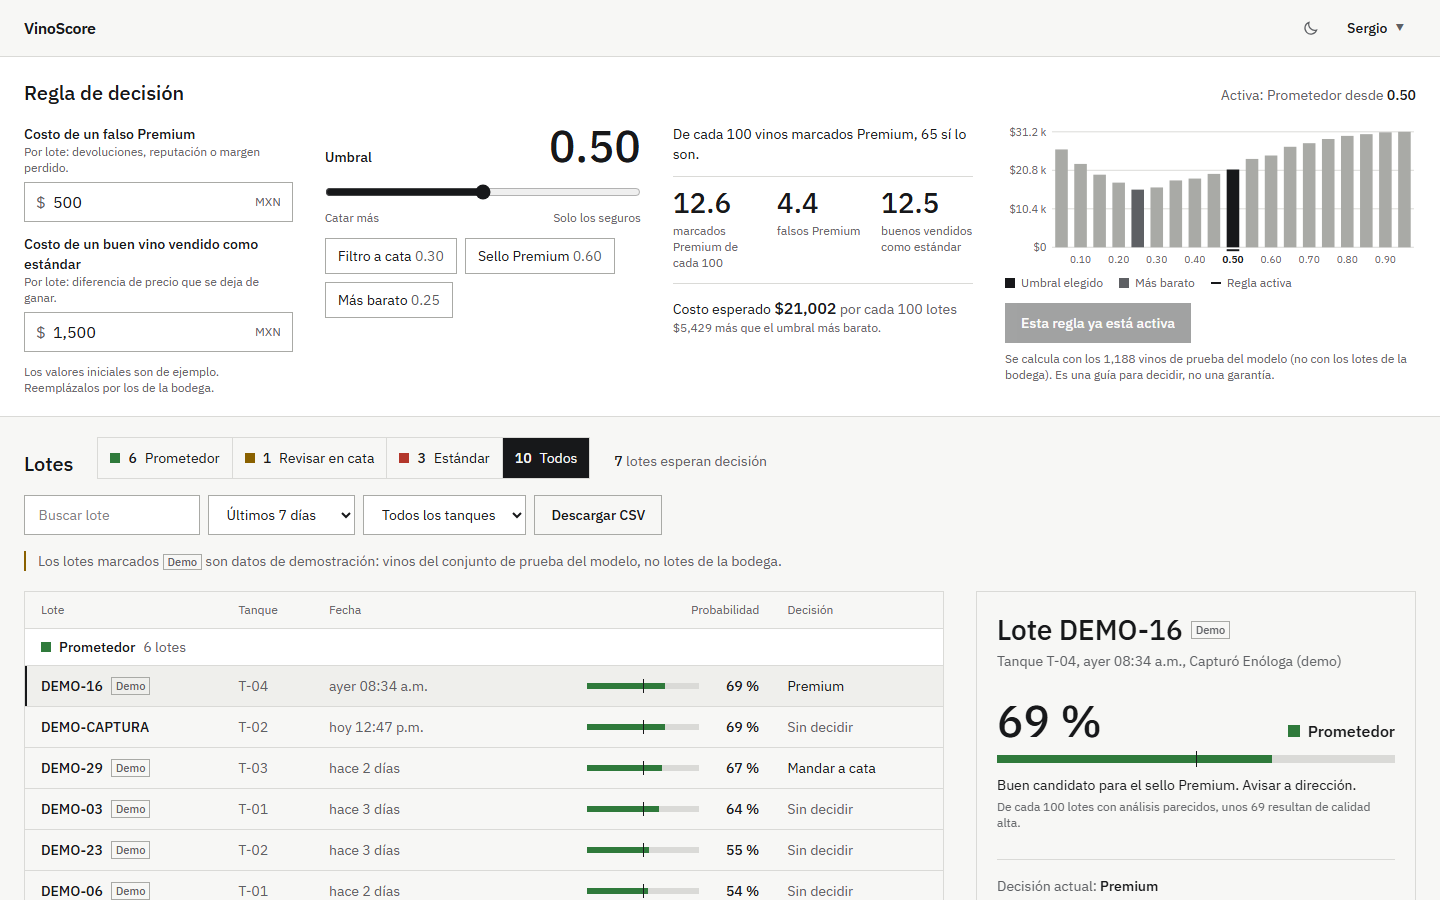
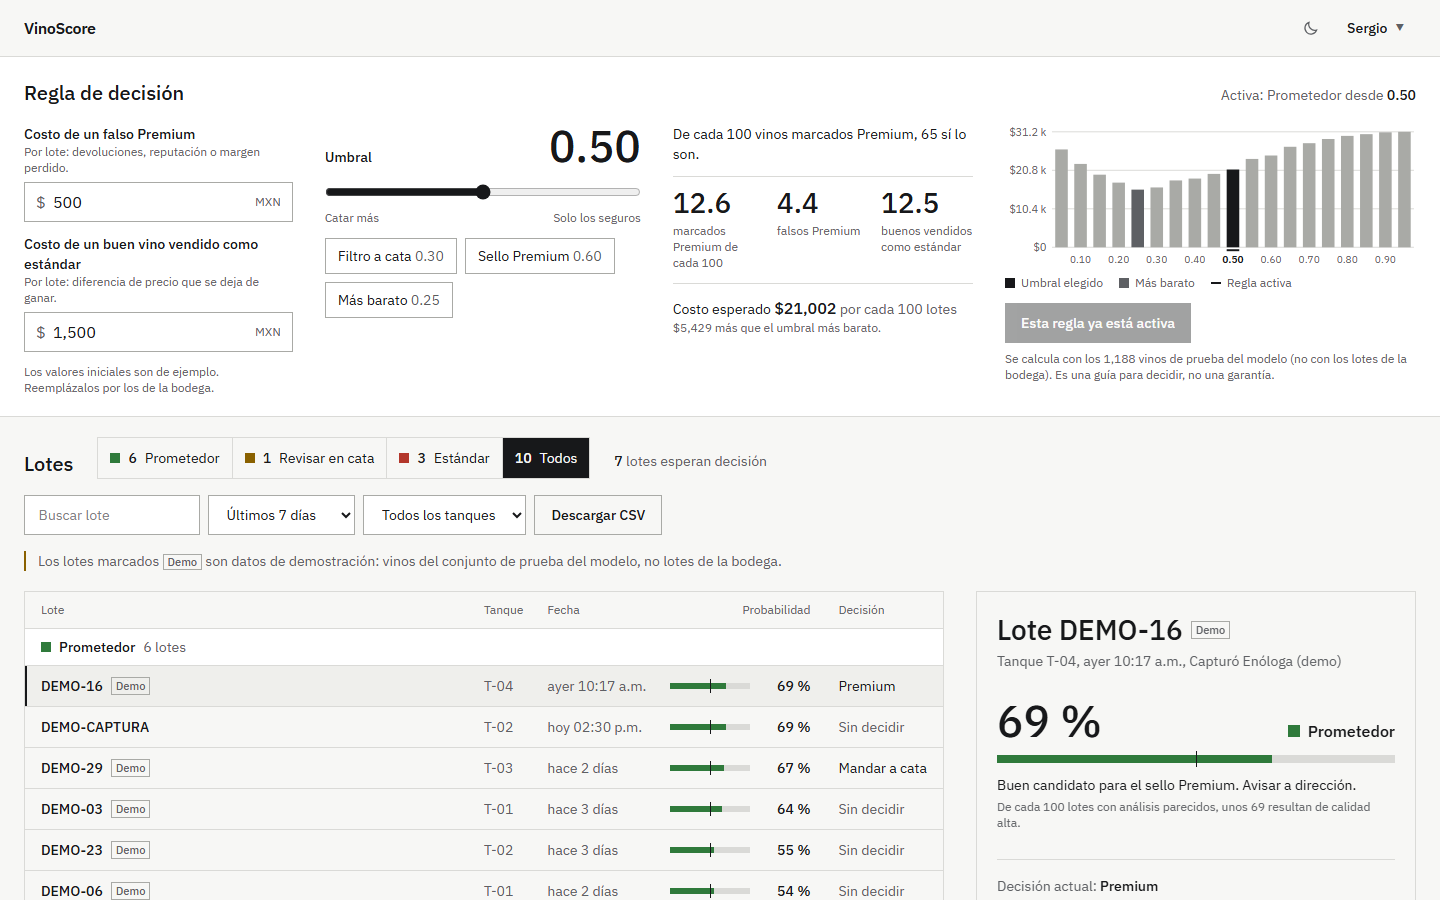
web: correcciones de la revisión final
- La tabla de lotes cabe completa de 390 a 1440 px (la columna Decisión ya no se esconde entre 1024 y 1279 px).
- Una coma ambigua en los costos ("1,5") pide corrección en lugar de leerse como 15.
- Los costos con centavos se muestran completos y no se redondean al activar otra regla.
- La leyenda del simulador vale en los dos temas.
- La prueba de interfaz revisa el contenedor de la tabla y espera a que se vacíe la lista de pendientes.

diff --git a/web/src/vistas/Sergio.tsx b/web/src/vistas/Sergio.tsx
@@ -201,12 +201,12 @@ export function VistaSergio({
               )}
               {enTabla.length > 0 && (
                 <div className="overflow-x-auto border border-linea">
-                  <table aria-label="Lotes" className="w-full min-w-[560px] text-sm">
+                  <table aria-label="Lotes" className="w-full text-sm">
                     <thead>
                       <tr className="border-b border-linea text-left text-xs text-suave">
                         <th scope="col" className="px-4 py-2.5 font-normal">Lote</th>
                         <th scope="col" className="hidden px-3 py-2.5 font-normal md:table-cell">Tanque</th>
-                        <th scope="col" className="hidden px-3 py-2.5 font-normal md:table-cell">Fecha</th>
+                        <th scope="col" className="hidden px-3 py-2.5 font-normal xl:table-cell">Fecha</th>
                         <th scope="col" className="px-3 py-2.5 text-right font-normal">Probabilidad</th>
                         <th scope="col" className="px-4 py-2.5 font-normal">Decisión</th>
                       </tr>
@@ -233,7 +233,8 @@ export function VistaSergio({
                               onClick={() => elegir(l)}
                               className={`cursor-pointer border-b border-linea last:border-b-0 hover:bg-realce ${sel ? "bg-realce shadow-[inset_2px_0_0_var(--texto)]" : ""}`}
                             >
-                              <td className="max-w-[16rem] px-4 py-2.5">
+                              {/* w-full + max-w-0: la columna Lote toma el espacio que sobra y recorta el código largo */}
+                              <td className="w-full max-w-0 px-4 py-2.5">
                                 <button
                                   onClick={(e) => {
                                     e.stopPropagation();
@@ -244,16 +245,18 @@ export function VistaSergio({
                                   <span className="truncate">{l.codigo}</span>
                                   {l.es_demo && <InsigniaDemo />}
                                 </button>
+                                {/* Lo que no cabe en columnas va bajo el código: tanque y fecha en celular, fecha en laptop */}
                                 <span className="block truncate text-xs text-suave md:hidden">
                                   {[l.tanque && `Tanque ${l.tanque}`, fechaRelativa(l.fecha)].filter(Boolean).join(", ")}
                                 </span>
+                                <span className="hidden truncate text-xs text-suave md:block xl:hidden">{fechaRelativa(l.fecha)}</span>
                               </td>
-                              <td className="hidden max-w-[8rem] truncate px-3 py-2.5 text-suave md:table-cell">{l.tanque || "–"}</td>
-                              <td className="hidden whitespace-nowrap px-3 py-2.5 text-suave md:table-cell">{fechaRelativa(l.fecha)}</td>
+                              <td className="hidden max-w-[8rem] truncate whitespace-nowrap px-3 py-2.5 text-suave md:table-cell">{l.tanque || "–"}</td>
+                              <td className="hidden whitespace-nowrap px-3 py-2.5 text-suave xl:table-cell">{fechaRelativa(l.fecha)}</td>
                               <td className="px-3 py-2.5">
                                 <span className="flex items-center justify-end gap-3">
                                   {l.probabilidad !== null && l.semaforo && (
-                                    <span className="hidden w-28 sm:block">
+                                    <span className="hidden w-20 md:block lg:hidden xl:block">
                                       <BarraProbabilidad p={l.probabilidad} semaforo={l.semaforo} umbral={umbral} />
                                     </span>
                                   )}

diff --git a/web/src/util.ts b/web/src/util.ts
@@ -93,15 +93,19 @@ export function fraseProbabilidad(p: number): string {
 }
 
 /**
- * Cantidades en pesos: "$1,500", "1500" o "1,500.50". La coma es separador de miles
- * (uso de México), así que "1,500" vale 1500 y no 1.5. Devuelve null si no es un número.
+ * Cantidades en pesos: "$1,500", "1500" o "1,500.50". La coma solo vale como separador
+ * de miles (uso de México): "1,500" es 1500. Una coma ambigua como "1,5" no se adivina:
+ * devuelve null para que la persona lo corrija.
  */
 export function leerPesos(texto: string): number | null {
-  const t = texto.replace(/[$\s,]/g, "");
-  if (t === "" || !/^\d*\.?\d+$|^\d+\.$/.test(t)) return null;
-  const n = Number(t);
+  const t = texto.replace(/[$\s]/g, "");
+  if (!/^(\d{1,3}(,\d{3})+|\d+)(\.\d+)?$/.test(t)) return null;
+  const n = Number(t.replace(/,/g, ""));
   return Number.isFinite(n) ? n : null;
 }
+
+/** Pesos para un campo editable: separador de miles y centavos solo si los hay ("1,500" o "1,500.5"). */
+export const pesosCampo = (n: number) => n.toLocaleString("es-MX", { maximumFractionDigits: 2 });
 
 /** Análisis de laboratorio: acepta "0,45" y "0.45". Devuelve null si no es un número válido. */
 export function leerNumero(texto: string): number | null {

diff --git a/web/src/vistas/Regla.tsx b/web/src/vistas/Regla.tsx
@@ -2,7 +2,7 @@ import { useEffect, useMemo, useState } from "react";
 import { api } from "../api";
 import type { Configuracion, FilaPerilla, Perilla } from "../tipos";
 import { Boton } from "../ui";
-import { leerPesos, num, peso } from "../util";
+import { leerPesos, num, peso, pesosCampo } from "../util";
 
 const compacto = new Intl.NumberFormat("es-MX", { style: "currency", currency: "MXN", notation: "compact", maximumFractionDigits: 1 });
 const igual = (a: number, b: number) => Math.abs(a - b) < 1e-6;
@@ -154,8 +154,8 @@ export function Regla({ onConfigCambia }: { onConfigCambia: (c: Configuracion) =
       .then((c) => {
         setCfg(c);
         setUmbral(redondear(c.umbral_activo));
-        setFp(num(c.costo_falso_premium, 0));
-        setFn(num(c.costo_bueno_perdido, 0));
+        setFp(pesosCampo(c.costo_falso_premium));
+        setFn(pesosCampo(c.costo_bueno_perdido));
       })
       .catch(() => setErrorCfg("No se pudo cargar la regla activa."));
   }, []);

diff --git a/web/src/vistas/FichaLote.tsx b/web/src/vistas/FichaLote.tsx
@@ -101,7 +101,7 @@ function Simulador({ ficha, variables, umbral }: { ficha: LoteFicha; variables: 
               <strong className="font-medium"> Pasaría de {SEMAFORO[ficha.semaforo].etiqueta} a {SEMAFORO[sim.semaforo].etiqueta}.</strong>
             )}
           </p>
-          <p className="mt-1 text-xs text-suave">Línea clara: umbral de la regla ({pct(umbral)}). Línea gris: valor original del lote.</p>
+          <p className="mt-1 text-xs text-suave">Línea fuerte: umbral de la regla ({pct(umbral)}). Línea gris: valor original del lote.</p>
           {sim.advertencias.length > 0 && (
             <p className="mt-3 border-l-2 border-ambar pl-3 text-xs">{sim.advertencias[0]} Con valores tan raros la estimación es menos confiable.</p>
           )}

diff --git a/docs/prueba_interfaz.py b/docs/prueba_interfaz.py
@@ -53,6 +53,16 @@ JS_ESQUINAS = """() => [...document.querySelectorAll('body *')].filter(e => {
 
 JS_DESBORDE = "() => document.documentElement.scrollWidth <= document.documentElement.clientWidth"
 
+# La tabla de lotes vive en un contenedor con desplazamiento propio: el de la página no basta.
+JS_TABLA = """() => { const t = document.querySelector('table[aria-label="Lotes"]');
+  if (!t) return null; const w = t.parentElement; return [w.scrollWidth, w.clientWidth]; }"""
+
+
+def tabla_cabe(pg: Page, donde: str) -> None:
+    medida = pg.evaluate(JS_TABLA)
+    revisar(medida is not None and medida[0] <= medida[1],
+            f"{donde}: la tabla de lotes cabe completa sin desplazarse ({medida})")
+
 
 def esquinas(pg: Page, donde: str) -> None:
     n = pg.evaluate("document.querySelectorAll('body button, body input').length")
@@ -188,6 +198,9 @@ def seccion_sergio(nav, url: str) -> None:
     if not aparece(cambio):
         print("    simulador muestra:", pg.locator("#sim-titulo").locator("xpath=../..").inner_text()[:400].replace("\n", " | "))
     revisar(cambio.count() > 0, "el simulador recalcula")
+    texto_ficha = pg.get_by_role("region", name="Ficha del lote").inner_text()
+    revisar("Línea clara" not in texto_ficha and "Línea fuerte" in texto_ficha,
+            "la leyenda del simulador vale en los dos temas (sin 'Línea clara')")
 
     # Decisión.
     ficha = pg.get_by_role("region", name="Ficha del lote")
@@ -213,6 +226,12 @@ def seccion_sergio(nav, url: str) -> None:
     esperado = solo_digitos(f"{round(fila_055['costo_por_100_lotes']):,}")
     mostrado = solo_digitos(pg.locator("#costo-esperado").inner_text())
     revisar(mostrado == esperado, f"'1,500' se lee como 1500 (costo {mostrado} vs {esperado})")
+    tabla_cabe(pg, "1440 px")
+
+    # Una coma que no separa miles es ambigua: se pide corregir, no se adivina.
+    pg.locator("#costo-fp").fill("1,5")
+    revisar(aparece(pg.get_by_text("Escribe los dos costos"), 3000), "'1,5' no se lee como 15: pide corregir el costo")
+    pg.locator("#costo-fp").fill("1,500")
 
     # Sin lotes que mostrar.
     pg.get_by_label("Buscar lote por código").fill("ZZZ")
@@ -250,6 +269,39 @@ def seccion_sergio(nav, url: str) -> None:
     pg.keyboard.press("Escape")
     revisar(pg.get_by_role("dialog").count() == 0, "Esc cierra la ficha")
     revisar(pg.evaluate(JS_DESBORDE), "sin desplazamiento horizontal a 900 px")
+    tabla_cabe(pg, "900 px")
+    ctx.close()
+
+    # Anchos de laptop y de celular: la tabla cabe completa (columna Decisión a la vista).
+    for ancho in (1024, 1100, 1280, 390):
+        ctx = nav.new_context(viewport={"width": ancho, "height": 900})
+        pg = ctx.new_page()
+        pg.set_default_timeout(8000)
+        pg.goto(url + "/?rol=sergio")
+        pg.wait_for_load_state("networkidle")
+        pg.locator("tbody tr[data-codigo]").first.wait_for()
+        tabla_cabe(pg, f"{ancho} px")
+        ctx.close()
+
+    # Un costo guardado con centavos no se redondea al mostrarlo ni al activar otra regla.
+    api(url, "/configuracion", "PUT", {
+        "umbral_activo": 0.5, "costo_falso_premium": 1500.5, "costo_bueno_perdido": 1500, "actualizado_por": "prueba",
+    })
+    ctx = nav.new_context(viewport={"width": 1440, "height": 900})
+    pg = ctx.new_page()
+    pg.set_default_timeout(8000)
+    pg.goto(url + "/?rol=sergio")
+    pg.wait_for_load_state("networkidle")
+    pg.locator("#costo-fp").wait_for()
+    pg.wait_for_timeout(500)
+    valor = pg.locator("#costo-fp").input_value()
+    revisar(valor == "1,500.5", f"un costo de 1500.5 se muestra completo ({valor})")
+    pg.locator("#umbral").focus()
+    pg.keyboard.press("ArrowRight")
+    pg.get_by_role("button", name="Activar umbral 0.55").click()
+    aparece(pg.get_by_text("Regla activada"))
+    guardado = api(url, "/configuracion")["costo_falso_premium"]
+    revisar(abs(guardado - 1500.5) < 1e-9, f"activar otra regla no cambia el costo guardado ({guardado})")
     ctx.close()
     regla_inicial(url)
 
@@ -322,7 +374,12 @@ def seccion_enologa(nav, url: str) -> None:
     pg.wait_for_timeout(2500)
     enviados = [l["codigo"] for l in api(url, "/lotes?orden=fecha")]
     revisar("PRUEBA-SIN-RED" in enviados, "al volver la red la captura se envía")
-    revisar(pg.get_by_text("Esperando conexión para enviarse").count() == 0, "ya no queda como pendiente")
+    try:  # la lista se refresca cuando termina el envío: se espera a que desaparezca
+        pg.get_by_text("Esperando conexión para enviarse").first.wait_for(state="hidden", timeout=10000)
+        sigue_pendiente = False
+    except Exception:
+        sigue_pendiente = True
+    revisar(not sigue_pendiente, "ya no queda como pendiente")
     revisar(pg.evaluate(JS_DESBORDE), "inicio sin desplazamiento horizontal a 390 px (código de 30 caracteres)")
     ctx.close()
 
@@ -335,6 +392,7 @@ def seccion_enologa(nav, url: str) -> None:
     pg.get_by_label("Buscar lote por código").fill("PRUEBA-CODIGO")
     revisar(pg.locator("tbody tr[data-codigo]").count() >= 1, "Sergio ve el lote capturado")
     revisar(pg.evaluate(JS_DESBORDE), "tabla de Sergio sin desplazamiento horizontal a 1024 px")
+    tabla_cabe(pg, "1024 px con código de 30 caracteres")
     ctx.close()
 
 
